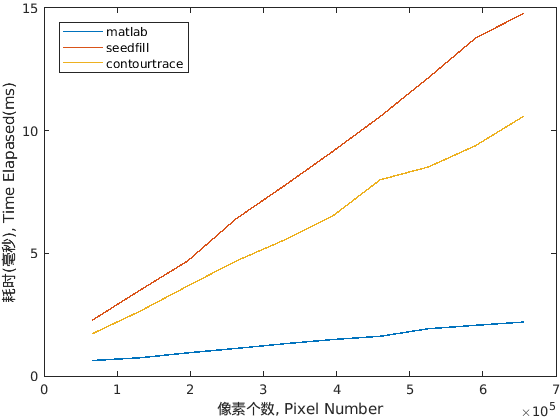
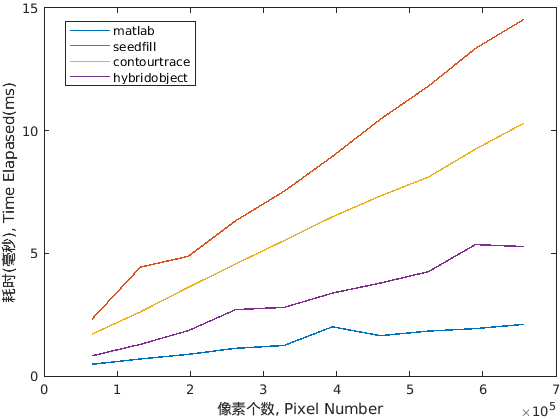
[update] add readme, fix bug of hybird object method

diff --git a/bw_label/readme.md b/bw_label/readme.md
@@ -1,0 +1,23 @@
+# BW Label
+
+区域连通处理
+
+## 算法原理
+
+查看相应文章
+
+## 几种方法对比
+
+如下图所示:
+
+![几种方法对比](https://github.com/yfor1008/image_processing_as_you_know_it/blob/master/bw_label/src/time_elapased_cmp.png?raw=true)
+
+## 使用方法
+
+```matlab
+% BW为二值图像
+labeled = seedFill(BW); % 种子点方法
+% labeled = contourTrace(BW); % 轮廓跟踪方法
+% labeled = hybridObject(BW); % 递归方法
+```
+
